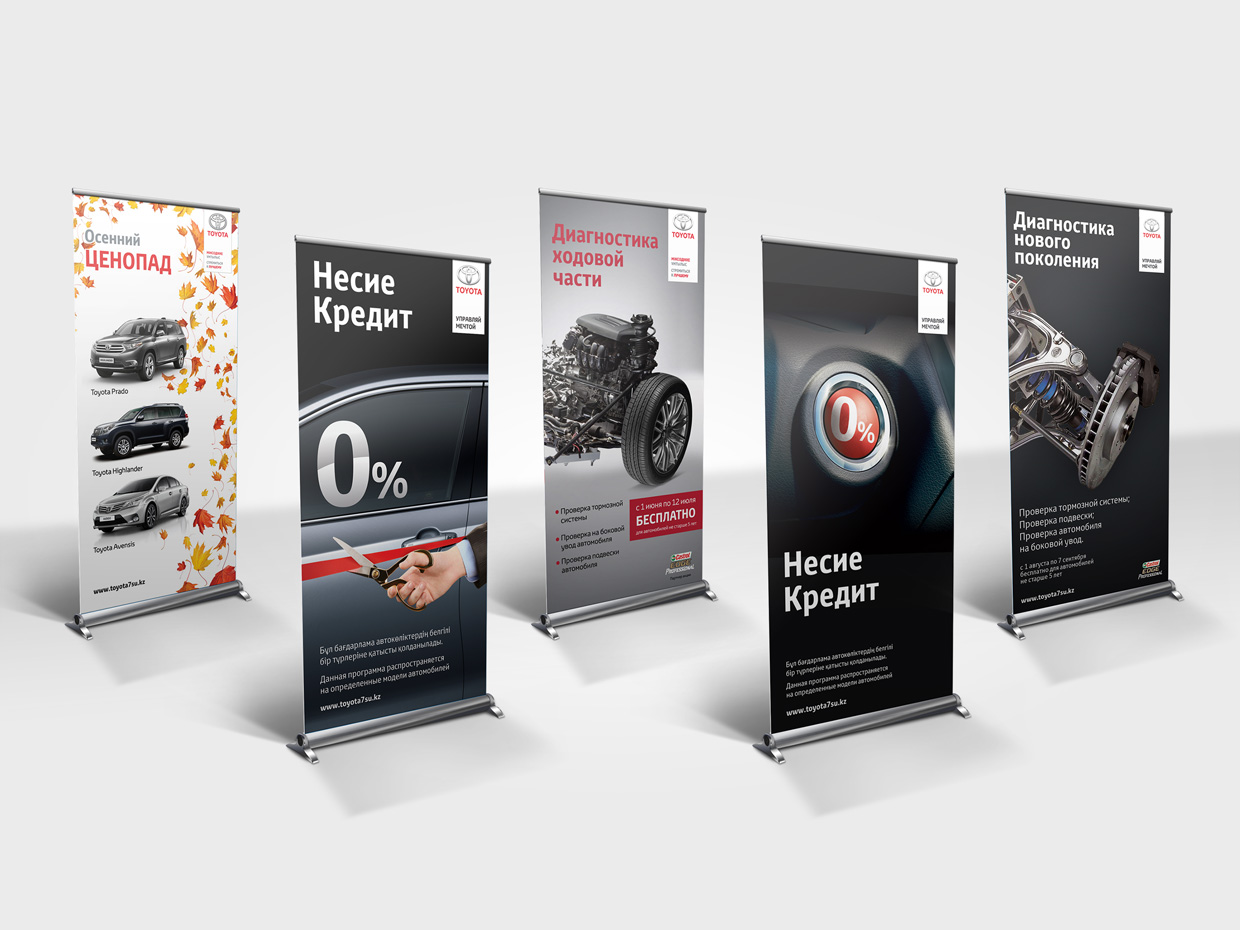
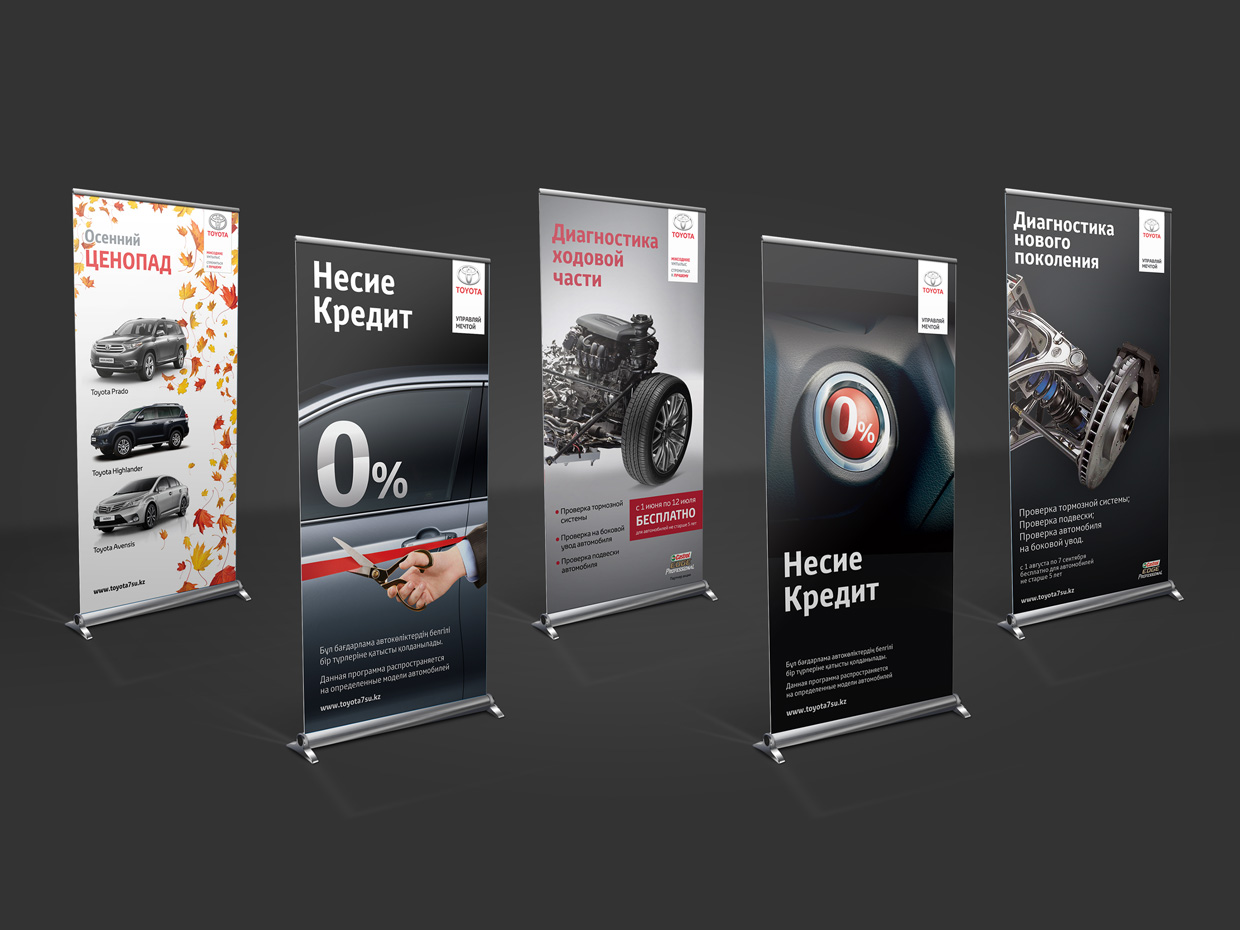
BCC Press A4 Done!

diff --git a/_posts/2015-11-09-BCC-PressA4.html b/_posts/2015-11-09-BCC-PressA4.html
@@ -1,0 +1,38 @@
+---
+name: BCC Press A4
+title: Серия рекламных модулей для банка Центр Кредит
+inverse_title: true
+tags: "Модули в прессу"
+picture: BCC_PressA4_Main.jpg
+landscape: false
+client: Банк Центр Кредит
+clientwebsite: bcc.kz
+---
+
+{% capture text %}
+  Совместная с Visa акция к чемпионату мира по футболу в Бразилии.
+{% endcapture %}
+{% include block-text.html title="Будь частью мирового чемпионата!" text=text %}
+
+{% include block-image.html image="BCC_PressA4_Brazil.jpg" title="Full width image" %}
+
+{% capture text %}
+  Потребительские кредиты в формате 3D — полный объем возможностей и выгода в трех измерениях.
+{% endcapture %}
+{% include block-text.html title="Выгода в трех измерениях" text=text %}
+
+{% include block-image.html image="BCC_PressA4_3D.jpg" title="Full width image" %}
+
+{% capture text %}
+  Бесплатное открытие счета, подключение к интернет банкингу версии "Light" и "Mobile".
+{% endcapture %}
+{% include block-text.html title="Предложение для бизнес-клиентов" text=text %}
+
+{% include block-image.html image="BCC_PressA4_0.jpg" title="Full width image" %}
+
+{% capture text %}
+  Акция по платежным картам в "День защиты детей".
+{% endcapture %}
+{% include block-text.html title="Подари детям праздник!" text=text %}
+
+{% include block-image.html image="BCC_PressA4_Kids.jpg" title="Full width image" %}

diff --git a/index.html b/index.html
@@ -4,15 +4,22 @@ layout: frontpage
 
 {% include feat_1landscape.html landscape1="7su-LC200" %}
 
+{% include feat_2portrait.html
+  portrait1="7su-Rollup"
+  portrait2="Kaspi-Rock"
+%}
+
+{% include feat_2landscape_1portrait.html
+  landscape1="first-project"
+  landscape2="first-project"
+  portrait1="BCC Press A4"
+%}
+
+
 {% include feat_2square_1square.html
   square1="Bazis-Tender-BB"
   square2="7su-All-Inclusive"
   square3="7su-15-Years"
-%}
-
-{% include feat_2portrait.html
-  portrait1="7su-Rollup"
-  portrait2="Kaspi-Rock"
 %}
 
 {% include feat_1square_2square.html
@@ -23,8 +30,9 @@ layout: frontpage
 
 {% include feat_1landscape.html landscape1="7su-Fortuner" %}
 
-{% comment %}
 
+
+{% comment %}
 
 {% include feat_1landscape.html landscape1="first-project" %}
 

diff --git a/_posts/2014-05-20-7Su-Rollup.html b/_posts/2014-05-20-7Su-Rollup.html
@@ -1,7 +1,7 @@
 ---
 name: 7su-Rollup
 title: Информационные роллап конструкции для Toyota центр "Жетысу"
-inverse_title: false
+inverse_title: true
 tags: "Rollup"
 picture: 7su_Rollups_Main.jpg
 landscape: false
